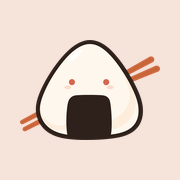
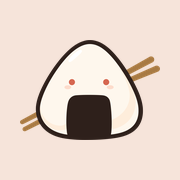
New colours: umeboshi plum and tea-rice instead of orange and cream
The accent becomes the pickled plum by the title's B (#A82D4A, #EE7D92 in dark mode) on a near-white tea-rice background (#F3F6F4), so Bentotachi stops looking like the cream-and-terracotta style people now read as AI-made. Ben's chopsticks and the title's underline become plain waribashi wood. Dark mode's danger colour moves to orange so errors don't look like links. Icons, launch screens, the guide and the built-in browser's buttons follow; VISION.md and branding/README.md record the choice.

Changed region(s): [[0.6944, 0.3056, 0.8889, 0.4444], [0.1111, 0.6111, 0.2222, 0.7222]]

diff --git a/web/src/styles.css b/web/src/styles.css
@@ -1,19 +1,24 @@
+/* Light is "tea-rice": a near-white with a hint of jade, and an umeboshi
+   (pickled plum) accent, chosen 2026-11-04 to stop looking like the
+   cream-and-clay "Claude look" (C:\Projects\TheKoiPond\AI-DESIGN-TELLS.md).
+   Plum on white: 6.7; plum on the background: 6.1. */
 :root {
-  --bg: #faf6f1;
+  --bg: #f3f6f4;
   --surface: #ffffff;
   --text: #2b2420;
-  --muted: #7a6d64;
-  --border: #e6ddd3;
-  --accent: #b4532a;
+  --muted: #5f6b67;
+  --border: #d8dddb;
+  --accent: #a82d4a;
   --accent-text: #ffffff;
-  --accent-soft: #f6e4da;
+  --accent-soft: #f4e4e7; /* plum text on it: 5.45 */
   /* Jade, the second accent (the title's leaf): "done, have, on" (tags,
-     ticks, switches that are on, good news, pantry "have"). Orange stays
+     ticks, switches that are on, good news, pantry "have"). Plum stays
      for "do this, selected, now": buttons, links, the selected thing. */
   --jade-soft: #e2efeb;
   --jade-strong: #3f7668;
   --jade-strong-text: #ffffff;
   --danger: #b3261e;
+  --danger-text: #ffffff; /* on a danger background: 6.5 */
   --success: #3f7668;
   /* Pantry statuses: background when selected, and its text colour. */
   --have: #3f7668;
@@ -37,15 +42,18 @@
     --bg: #141b1b;
     --surface: #202928;
     --text: #f1ebe5;
-    --muted: #a89a8f;
+    --muted: #a9b3ae;
     --border: #34403e;
-    --accent: #e07a4f;
+    --accent: #ee7d92; /* on the background: 6.6, dark text on it: 6.6 */
     --accent-text: #141b1b;
-    --accent-soft: #302a25; /* orange text on it: 4.76 */
+    --accent-soft: #33282c; /* plum text on it: 5.39 */
     --jade-soft: #1d3330;
     --jade-strong: #7fbfae;
     --jade-strong-text: #141b1b;
-    --danger: #f2827a;
+    /* More orange than the pink-plum accent, so errors don't look like links.
+       On the background: 7.6; on cards: 6.4. */
+    --danger: #ff8a65;
+    --danger-text: #141b1b; /* white on it would be 2.3 */
     --success: #7fbfae;
     --have: #7fbfae;
     --have-text: #141b1b;
@@ -1975,7 +1983,7 @@ legend {
   width: 32px;
   height: 32px;
   padding: 0;
-  color: #fff;
+  color: var(--danger-text);
   background: var(--danger);
   border: 2px solid #fff;
   border-radius: 50%;

diff --git a/web/src/pages/Profile.tsx b/web/src/pages/Profile.tsx
@@ -230,7 +230,7 @@ function NameSection({ user, showUsername }: { user: User; showUsername: boolean
 }
 
 // My color: marks your name and thumbs up around the app. Tap the chosen one
-// again for Bento's usual orange.
+// again for Bentotachi's usual plum (the accent).
 function ColorSection({ user }: { user: User }) {
   const [status, setStatus] = useState<{ text: string; isError: boolean } | null>(null);
   const current = PERSON_COLORS.find((color) => color.value === user.color);
@@ -248,7 +248,7 @@ function ColorSection({ user }: { user: User }) {
     <Section title="My color">
       <div className="stack profile-color">
         <span className="muted">
-          {current?.name ?? "None (orange)"}. It marks your name and thumbs up around the app.
+          {current?.name ?? "None (the app's plum)"}. It marks your name and thumbs up around the app.
         </span>
         <div className="swatches" role="group" aria-label="Choose my color">
           {PERSON_COLORS.map((color) => (

diff --git a/web/src/pb.ts b/web/src/pb.ts
@@ -46,7 +46,7 @@ export interface User extends RecordModel {
   name: string;
   // Their "quick recipe" limit in minutes; 0 means the default (30).
   quick_minutes: number;
-  // Their color, like "#7048e8"; "" means Bento's usual orange.
+  // Their color, like "#7048e8"; "" means Bentotachi's usual plum (the accent).
   color: string;
   // Their profile picture's file name, or "" for none (see Avatar.tsx).
   avatar: string;
@@ -219,7 +219,7 @@ export const PERSON_COLORS = [
 ];
 
 // Style that gives an element (and what's inside it) a person's color, used
-// by CSS as var(--person). Without a color, CSS falls back to the orange.
+// by CSS as var(--person). Without a color, CSS falls back to the accent (plum).
 export function personStyle(user: Pick<User, "color"> | undefined): CSSProperties | undefined {
   return user?.color ? ({ "--person": user.color } as CSSProperties) : undefined;
 }

diff --git a/web/public/guide.html b/web/public/guide.html
@@ -6,13 +6,13 @@
     <title>Setting up Bentotachi</title>
     <style>
       :root {
-        --bg: #faf6f1;
+        --bg: #f3f6f4;
         --surface: #ffffff;
         --text: #2b2420;
-        --muted: #6f625a;
-        --border: #e8ddd3;
-        --accent: #b4532a;
-        --soft: #f6e4da;
+        --muted: #5f6b67;
+        --border: #d8dddb;
+        --accent: #a82d4a;
+        --soft: #f4e4e7;
         --warn: #fff4d6;
         color-scheme: light dark;
       }
@@ -23,8 +23,8 @@
           --text: #f1ebe5;
           --muted: #b3a79d;
           --border: #3d3530;
-          --accent: #e07a4f;
-          --soft: #3a2a22;
+          --accent: #ee7d92;
+          --soft: #3a2a30;
           --warn: #3a3220;
         }
       }

diff --git a/web/index.html b/web/index.html
@@ -3,7 +3,7 @@
   <head>
     <meta charset="UTF-8" />
     <meta name="viewport" content="width=device-width, initial-scale=1, viewport-fit=cover" />
-    <meta name="theme-color" content="#b4532a" />
+    <meta name="theme-color" content="#a82d4a" />
     <title>Bentotachi</title>
     <link rel="icon" type="image/png" href="/favicon.png" />
     <link rel="apple-touch-icon" href="/apple-touch-icon.png" />

diff --git a/web/src/App.tsx b/web/src/App.tsx
@@ -56,7 +56,7 @@ function OneRecipe({ page: Page }: { page: () => React.JSX.Element | null }) {
   return <Page key={id} />;
 }
 
-// The top bar's orange +.
+// The top bar's plum +.
 function PlusButton({ to, label }: { to: string; label: string }) {
   return (
     <Link to={to} className="icon-button primary" aria-label={label} title={label}>

diff --git a/branding/make_ben_moods.py b/branding/make_ben_moods.py
@@ -1,6 +1,6 @@
 # Ben's moods: the onigiri (onigiri.svg) with different eyes and one or two
 # extras each, for empty and error screens. Built from Ben's own parts, so
-# every mood has his exact outline, colours and orange chopsticks.
+# every mood has his exact outline, colours and wooden chopsticks.
 #
 #   python make_ben_moods.py <folder with onigiri.svg> <output folder>
 #
@@ -39,7 +39,8 @@ def part(name):
     return found.group(0)
 
 
-INK, RICE, ORANGE, EYE = "#2e201b", "#fef7ed", "#c8643a", "#d66750"
+# WOOD is his chopsticks: plain waribashi wood since 2026-11-04 (orange before).
+INK, RICE, WOOD, EYE = "#2e201b", "#fef7ed", "#a87a43", "#d66750"
 GOLD = "#e0a100"
 DROP, DROP_EDGE, DROP_SHINE = "#a9dccf", "#3f7668", "#ffffff"  # jade
 BLUSH, BLUSH_LINE = "#f4a3a0", "#e47b78"
@@ -157,7 +158,7 @@ moods["bitten"] = svg(bitten, label="Ben, with a bite out of him")
 
 # Ready: holding his chopsticks in front of him, with little hands.
 ready = (onigiri(chopsticks=False)
-         + f'<path d="M 1150,2330 L 2620,2170 M 1175,2445 L 2645,2285" {line(ORANGE, 78)}/>\n'
+         + f'<path d="M 1150,2330 L 2620,2170 M 1175,2445 L 2645,2285" {line(WOOD, 78)}/>\n'
          + f'<g fill="{RICE}" stroke="{INK}" stroke-width="44"><circle cx="1290" cy="2380" r="118"/>'
            f'<circle cx="2480" cy="2235" r="118"/></g>\n')
 moods["ready"] = svg(ready, label="Ben, holding his chopsticks")

diff --git a/branding/make_svg_title.py b/branding/make_svg_title.py
@@ -132,8 +132,8 @@ def title(letter_colour):
     return f'''<svg xmlns="http://www.w3.org/2000/svg" viewBox="{view_box}" role="img" aria-label="Bentotachi">
 <title>Bentotachi</title>
 <g transform="scale({S})">
-  <path d="{stick}" fill="#c8643a"/>
-  <path d="{shine}" fill="none" stroke="#e69a76" stroke-width="1.8" stroke-linecap="round" opacity="0.85"/>
+  <path d="{stick}" fill="#a87a43"/>
+  <path d="{shine}" fill="none" stroke="#d4b07c" stroke-width="1.8" stroke-linecap="round" opacity="0.85"/>
 </g>
 <path d="{traced["letters"]}" fill="{letter_colour}"/>
 <g transform="{ume_place}">

diff --git a/branding/make_svg_mascot.py b/branding/make_svg_mascot.py
@@ -94,7 +94,7 @@ blush_shapes = "\n".join(f'  <ellipse cx="{x:.0f}" cy="{y:.0f}" rx="{rx:.0f}" ry
 
 svg = f'''<svg xmlns="http://www.w3.org/2000/svg" viewBox="{x0} {y0} {x1 - x0} {y1 - y0}" role="img" aria-label="Bentotachi's onigiri">
 <title>Bentotachi's onigiri</title>
-<path id="chopsticks" d="{traced["chopsticks"]}" fill="#c8643a"/>
+<path id="chopsticks" d="{traced["chopsticks"]}" fill="#a87a43"/>
 <path id="body" d="{traced["body"]}" fill="#fef7ed"/>
 <path id="shade" d="{traced["shade"]}" fill="#feeddb"/>
 <path id="highlight" d="{traced["highlight"]}" fill="#ffffff"/>

diff --git a/branding/make_icons.py b/branding/make_icons.py
@@ -10,8 +10,8 @@ logo_path, res, public, preview = sys.argv[1:5]
 logo = Image.open(logo_path).convert("RGBA")
 logo = logo.crop(logo.getbbox())
 
-ICON_BG = (0xF6, 0xE4, 0xDA, 255)  # --accent-soft
-SPLASH_BG = (0xFA, 0xF6, 0xF1, 255)  # --bg
+ICON_BG = (0xF6, 0xE4, 0xDA, 255)  # peach, the soft accent before the 2026-11-04 colours
+SPLASH_BG = (0xF3, 0xF6, 0xF4, 255)  # --bg (tea-rice)
 
 # Android density buckets: launcher icon size (48dp) and adaptive foreground (108dp).
 DENSITIES = {"mdpi": 1, "hdpi": 1.5, "xhdpi": 2, "xxhdpi": 3, "xxxhdpi": 4}

diff --git a/web/android/app/src/main/java/com/xel/bento/BrowserActivity.java b/web/android/app/src/main/java/com/xel/bento/BrowserActivity.java
@@ -71,7 +71,7 @@ public class BrowserActivity extends AppCompatActivity {
         savedPage = page;
     }
 
-    private static final int ACCENT = Color.parseColor("#B4532A");
+    private static final int ACCENT = Color.parseColor("#A82D4A"); // the app's light accent (umeboshi)
 
     // Runs inside the page. Collects the page's recipe data blocks (and its
     // preview image) into a tiny HTML document for the server's recipe

diff --git a/docs/VISION.md b/docs/VISION.md
@@ -86,12 +86,14 @@ group: the bento gang). The title is Xel's drawn lettering, as SVGs:
 `branding/make_svg_title.py` makes a light version (brown letters) and a
 dark one (cream letters), with an umeboshi by the "B" (the pickled plum
 inside an onigiri, with a little puddle of juice), a jade leaf on the "i"
-with baran's ridges (the green divider in a bento box), and an orange
+with baran's ridges (the green divider in a bento box), and a wooden
 chopstick underline. Together with the mascot it's one bento: the filling,
 the divider, the chopsticks, the rice.
 
 **Mascot.** Ben (to us; the app needn't name him), a screaming onigiri
-skewered on orange chopsticks (`branding/make_svg_mascot.py`). The scream is
+skewered on plain wooden chopsticks, like the waribashi that come with a
+takeaway bento (`branding/make_svg_mascot.py`; orange until 2026-11-04,
+when the app's colours moved to plum and jade). The scream is
 the point. Every part is its
 own shape, so moods can change the eyes, add sweat, take a bite out of it.
 
@@ -102,7 +104,7 @@ own shape, so moods can change the eyes, add sweat, take a bite out of it.
   a grain of rice flying off) by an import error, bitten beside "Delete
   everything", holding his chopsticks on "No recipes yet", and a halo by
   "Backup saved." One or two details each: ChatGPT's mockups had more, and
-  less is clearer. He keeps his orange chopsticks in every mood. Big (120
+  less is clearer. He keeps his wooden chopsticks in every mood. Big (120
   px) on empty screens, small (72 px) beside a message. The words beside
   him still carry the information.
 - Detailed versions where there's room, simple ones where it's small (the
@@ -112,23 +114,35 @@ own shape, so moods can change the eyes, add sweat, take a bite out of it.
 
 | | Light | Dark |
 |---|---|---|
-| Background | #FAF6F1 cream | #141B1B "pond at night" |
+| Background | #F3F6F4 "tea-rice" | #141B1B "pond at night" |
 | Cards | #FFFFFF | #202928 |
 | Text | #2B2420 | #F1EBE5 |
-| Accent (buttons, links) | #B4532A terracotta | #E07A4F |
-| Soft accent (icon background) | #F6E4DA peach | #302A25 |
-| Logo chopsticks | #C8643A (clear on both) | #C8643A |
+| Quiet text | #5F6B67 | #A9B3AE |
+| Accent (buttons, links) | #A82D4A umeboshi | #EE7D92 |
+| Soft accent (icon background) | #F4E4E7 | #33282C |
+| Danger (errors, delete) | #B3261E | #FF8A65 (kept apart from the pink accent) |
+| Logo chopsticks (waribashi wood) | #A87A43 (clear on both) | #A87A43 |
 | Jade, the second accent (the leaf) | #5A9A8A | #5A9A8A |
 | Jade tags, website note | #E2EFEB soft jade | #1D3330 |
 | Jade selected tag | #3F7668, white text | #7FBFAE, dark text |
 | Jade text ("Saved.") | #3A7062 | #8FD3C1 |
 
-**Orange and jade** (decided 2026-11-01: teal is Xel's favourite, and it's
-the colour opposite orange). Orange is for doing things: buttons, links,
-the chopsticks. Jade is for labels and good news: tags, success messages,
-the website's note, the title's leaf. Add jade where it can afford to, not
-on buttons. The plain jade (#5A9A8A) is only 3:1 on cream, so it's for
-shapes, never text; use the text shades above.
+**Umeboshi and jade** (jade decided 2026-11-01: teal is Xel's favourite;
+umeboshi replaced orange on 2026-11-04). Cream with a terracotta orange
+had become the look people recognise as AI-made ("the Claude look", see
+`C:\Projects\TheKoiPond\AI-DESIGN-TELLS.md`), so the background became a
+near-white "tea-rice" and the accent the pickled plum by the title's "B"
+(chosen side by side in `C:\Projects\TheKoiPond\AI-DESIGN-TELLS-colours.html`).
+Umeboshi is for doing things: buttons, links, the selected thing. Ben's
+chopsticks became plain wood the same day (compared in
+`C:\Projects\TheKoiPond\AI-DESIGN-TELLS-ben-chopsticks.html`), so plum and
+jade are the only bold colours. Jade is for labels and good
+news: tags, success messages, the website's note, the title's leaf. Add
+jade where it can afford to, not on buttons. The plain jade (#5A9A8A) is
+only 3:1 on the background, so it's for shapes, never text; use the text
+shades above. The favourite heart (#D6336C / #F06595) is also pink, and
+close to the accent in dark mode; it's always the heart shape, so it still
+reads as "favourite".
 
 The pantry's Have / Low / Out colours stay green, amber and red: they mean
 something at a glance.
